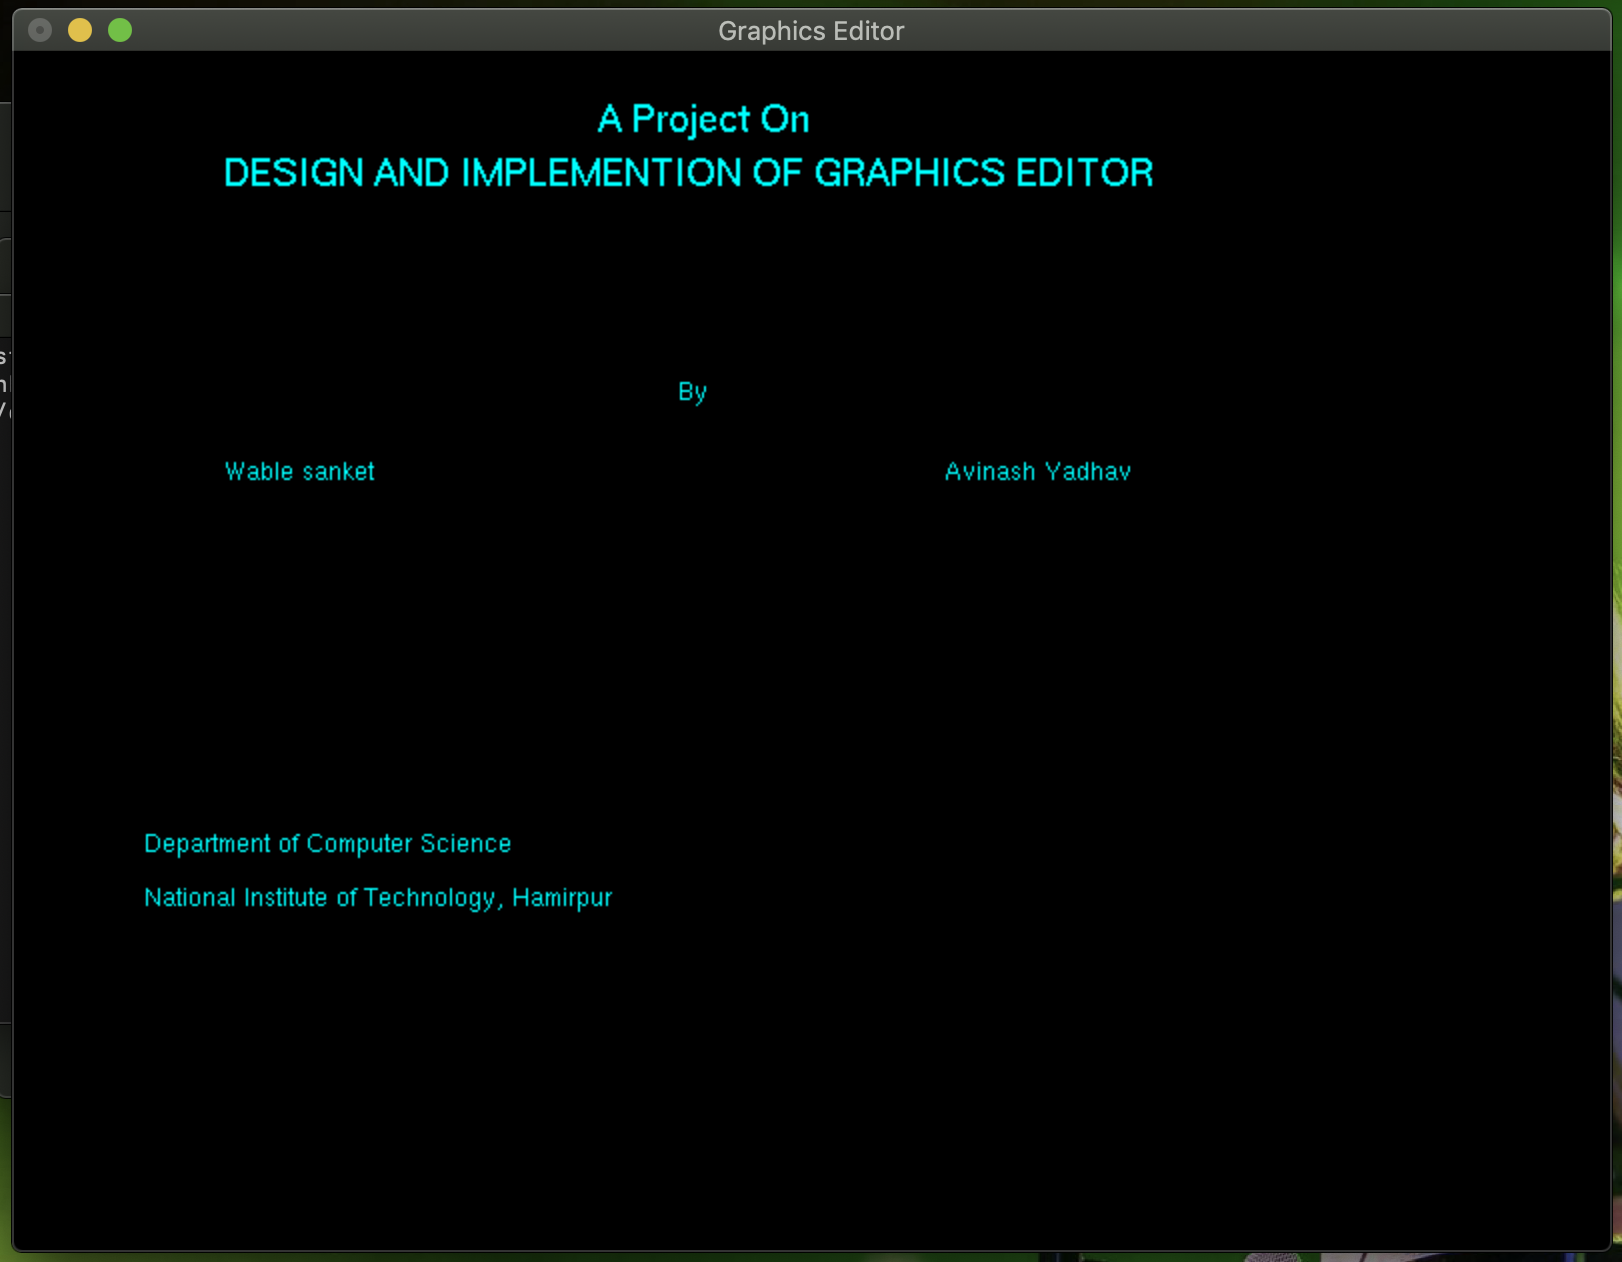
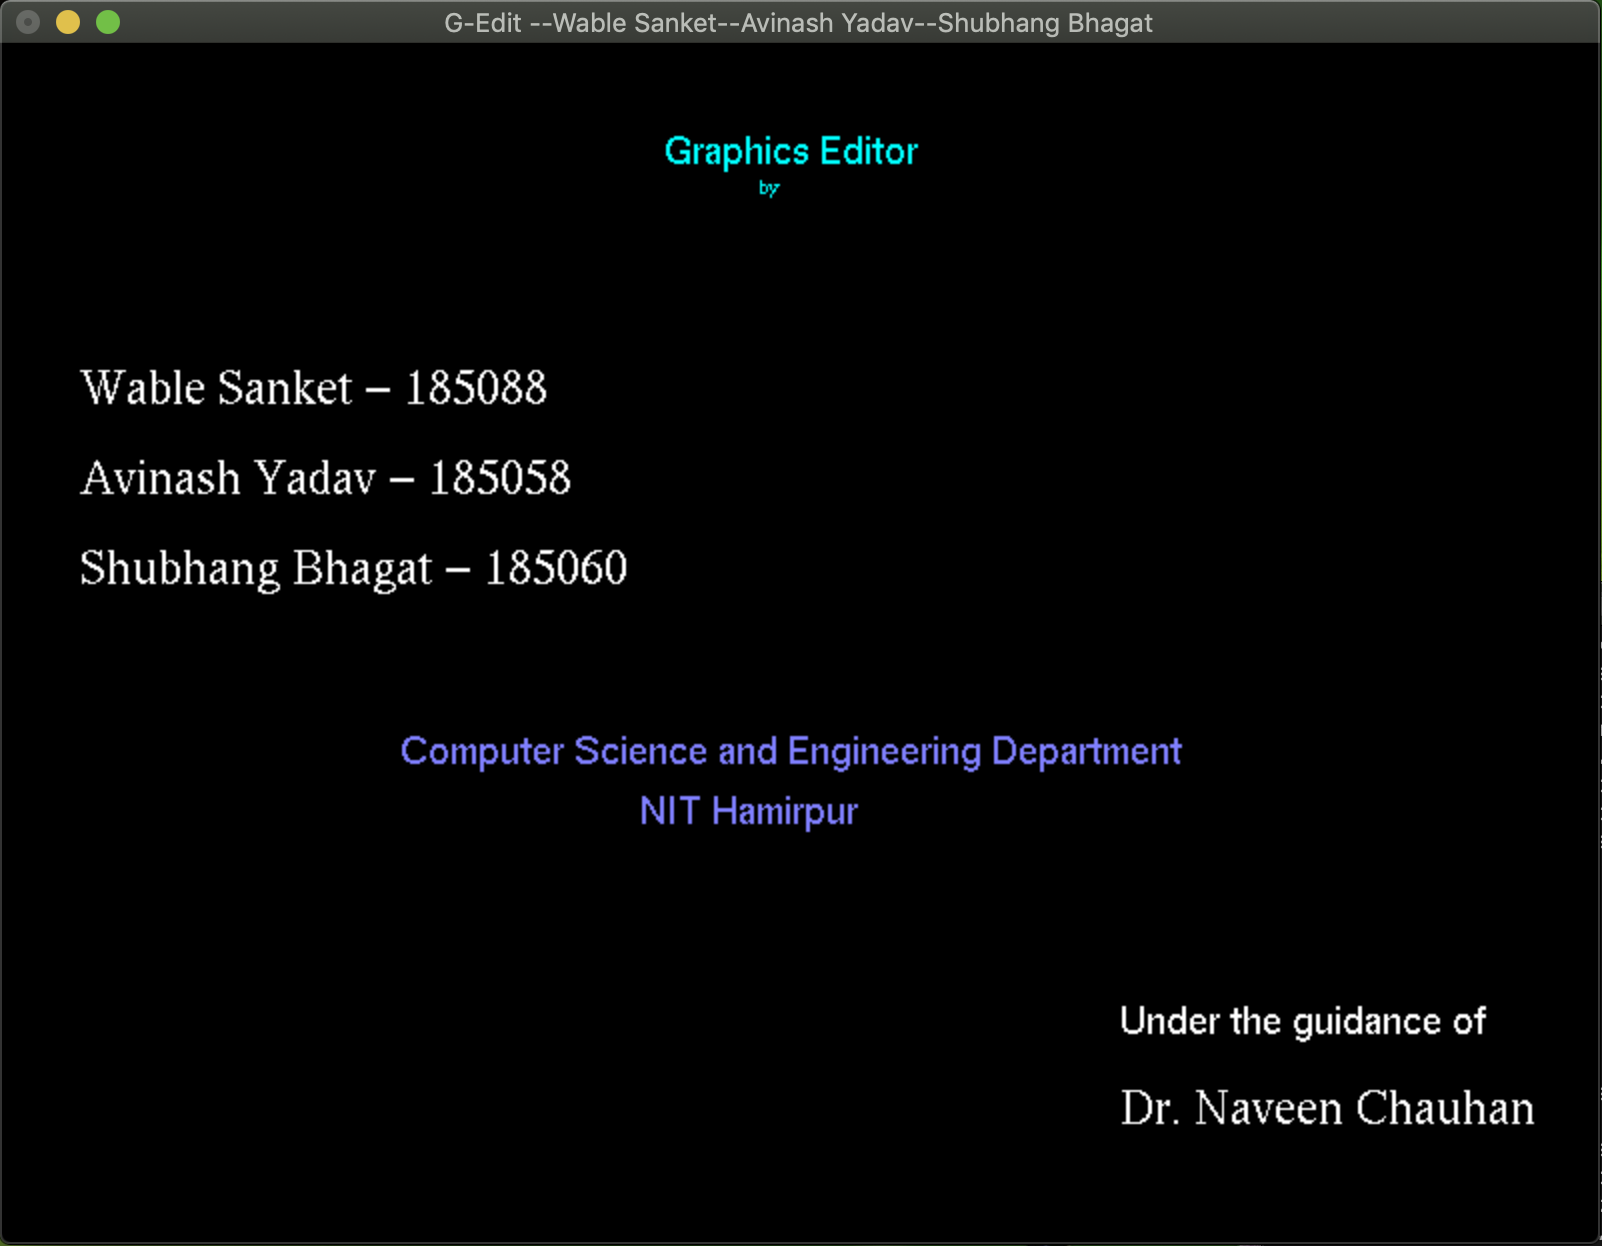
Added Initial Screen

diff --git a/display.cpp b/display.cpp
@@ -33,8 +33,22 @@ void display() {
     
     setFont(GLUT_BITMAP_HELVETICA_18);
     glColor3f(0,1,1);
-    drawstring(22*wh/45,40*wh/45,0.0,"Welcome to Graphics Editor");
-
+    drawstring(-0.17,0.8,0.0,"Graphics Editor");
+    setFont(GLUT_BITMAP_TIMES_ROMAN_10);
+    drawstring(-0.05,0.75,0.0,"by");
+    setFont(GLUT_BITMAP_TIMES_ROMAN_24);
+    glColor3f(1,1,1);
+    drawstring(-0.9,0.4,0.0,"Wable Sanket - 185088");
+    drawstring(-0.9,0.25,0.0,"Avinash Yadav - 185058");
+    drawstring(-0.9,0.1,0.0,"Shubhang Bhagat - 185060");
+    setFont(GLUT_BITMAP_HELVETICA_18);
+    glColor3f(0.5,0.5,1.0);
+    drawstring(-0.5,-0.2,0.0,"Computer Science and Engineering Department");
+    drawstring(-0.2,-0.3,0.0,"NIT Hamirpur");
+    glColor3f(1.0,1.0,1.0);
+    drawstring(0.4,-0.65,0.0,"Under the guidance of");
+    setFont(GLUT_BITMAP_TIMES_ROMAN_24);
+    drawstring(0.4,-0.8,0.0,"Dr. Naveen Chauhan");
     }
     glFlush();
     glClearColor(1.0,1.0,1.0,1.0);
